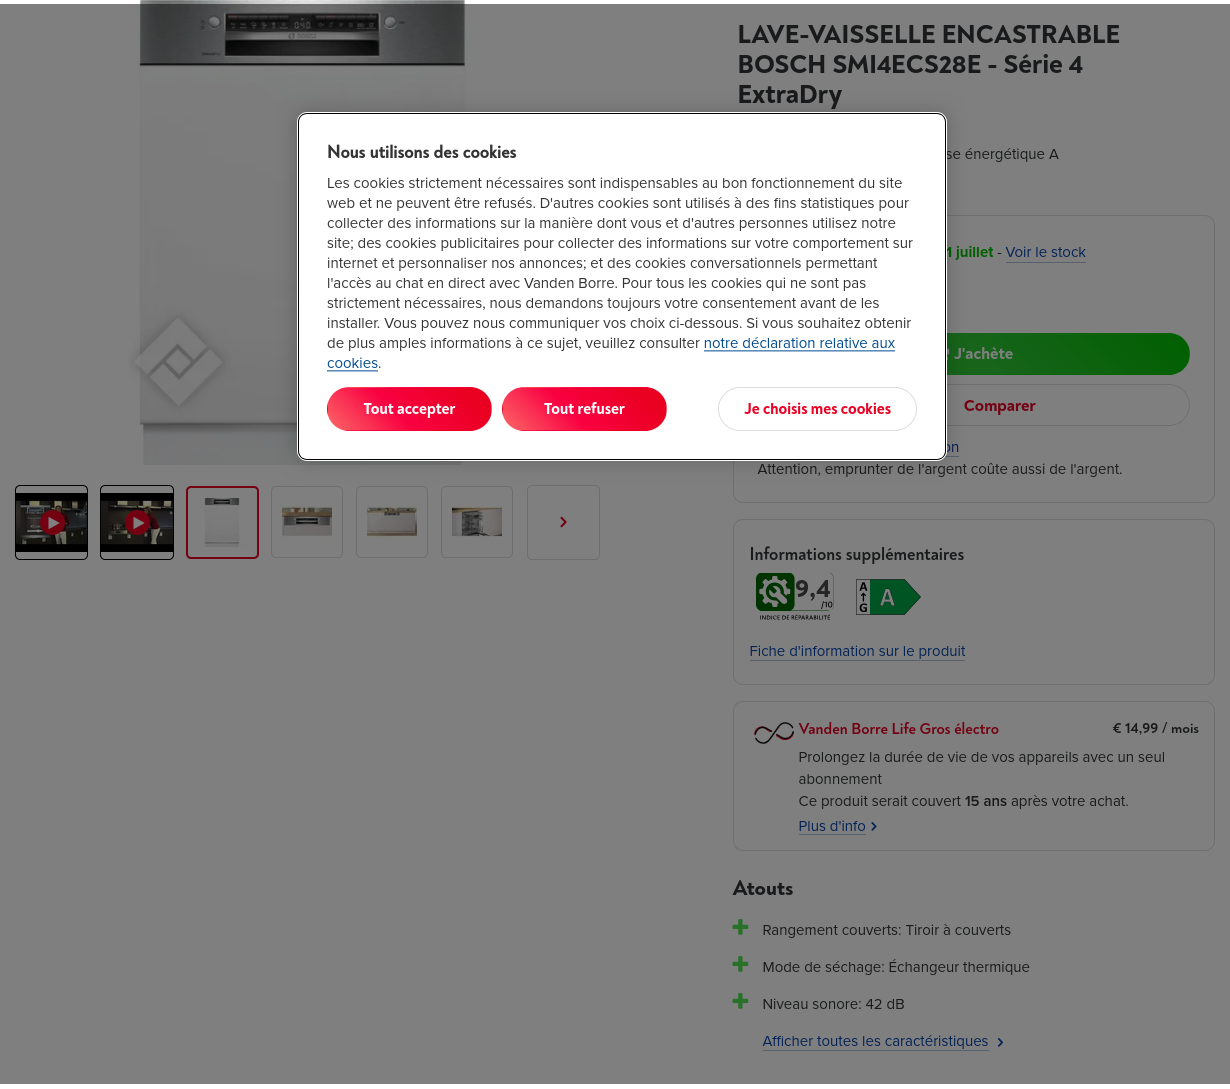
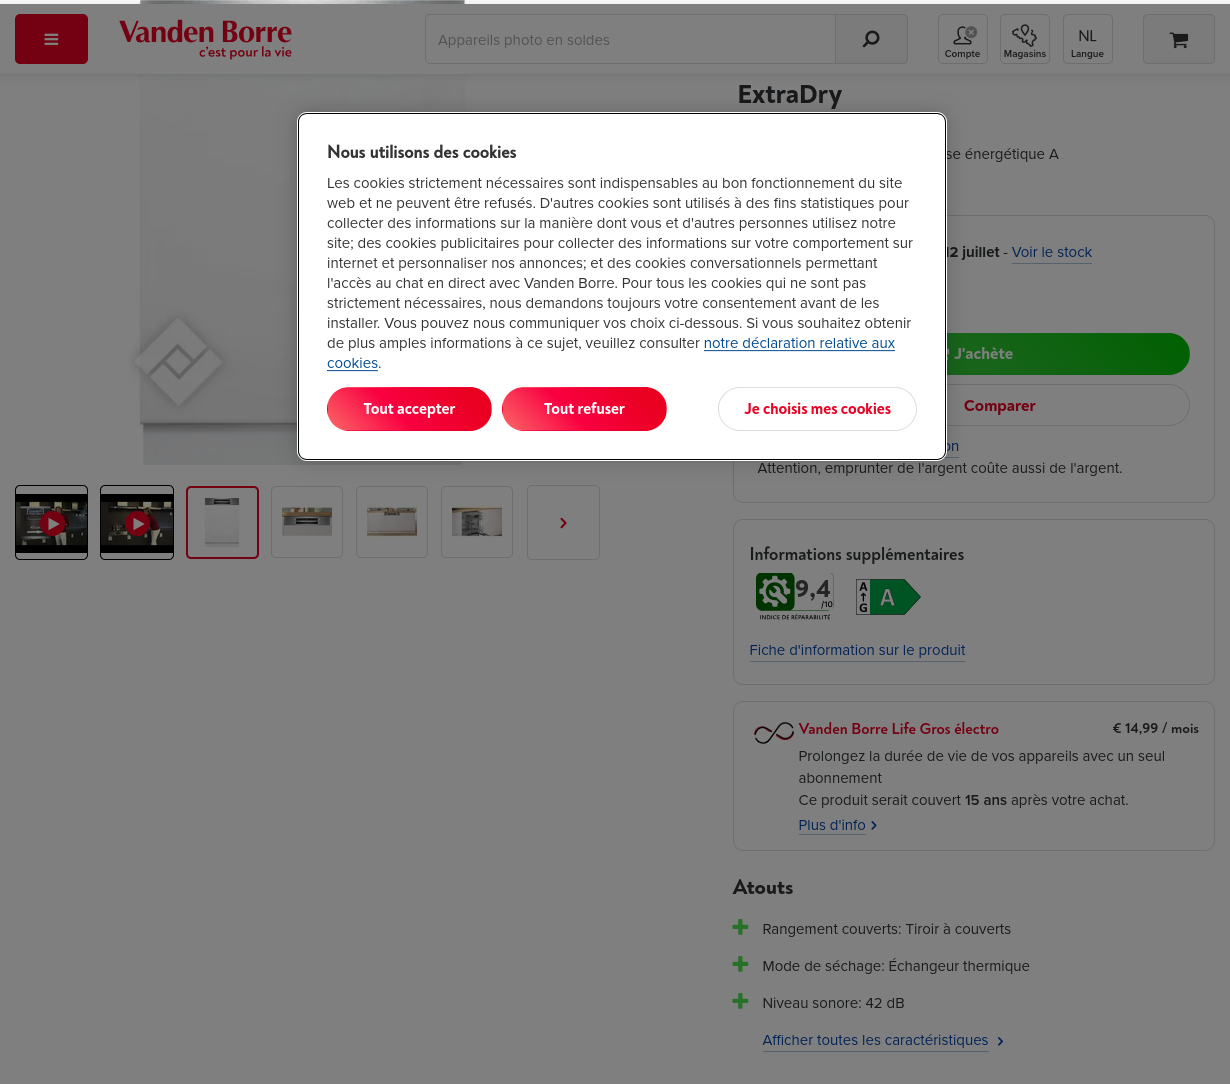
Latest scraping prices: Mon Jul  7 13:40:11 UTC 2025

diff --git a/scrapes/prices/vandenborre-SMI4ECS28E.md b/scrapes/prices/vandenborre-SMI4ECS28E.md
@@ -1,4 +1,4 @@
-Disponible à partir du ven. 11 juillet \- Voir le stock
+Disponible à partir du sam. 12 juillet \- Voir le stock
 
 € 699,00
 
